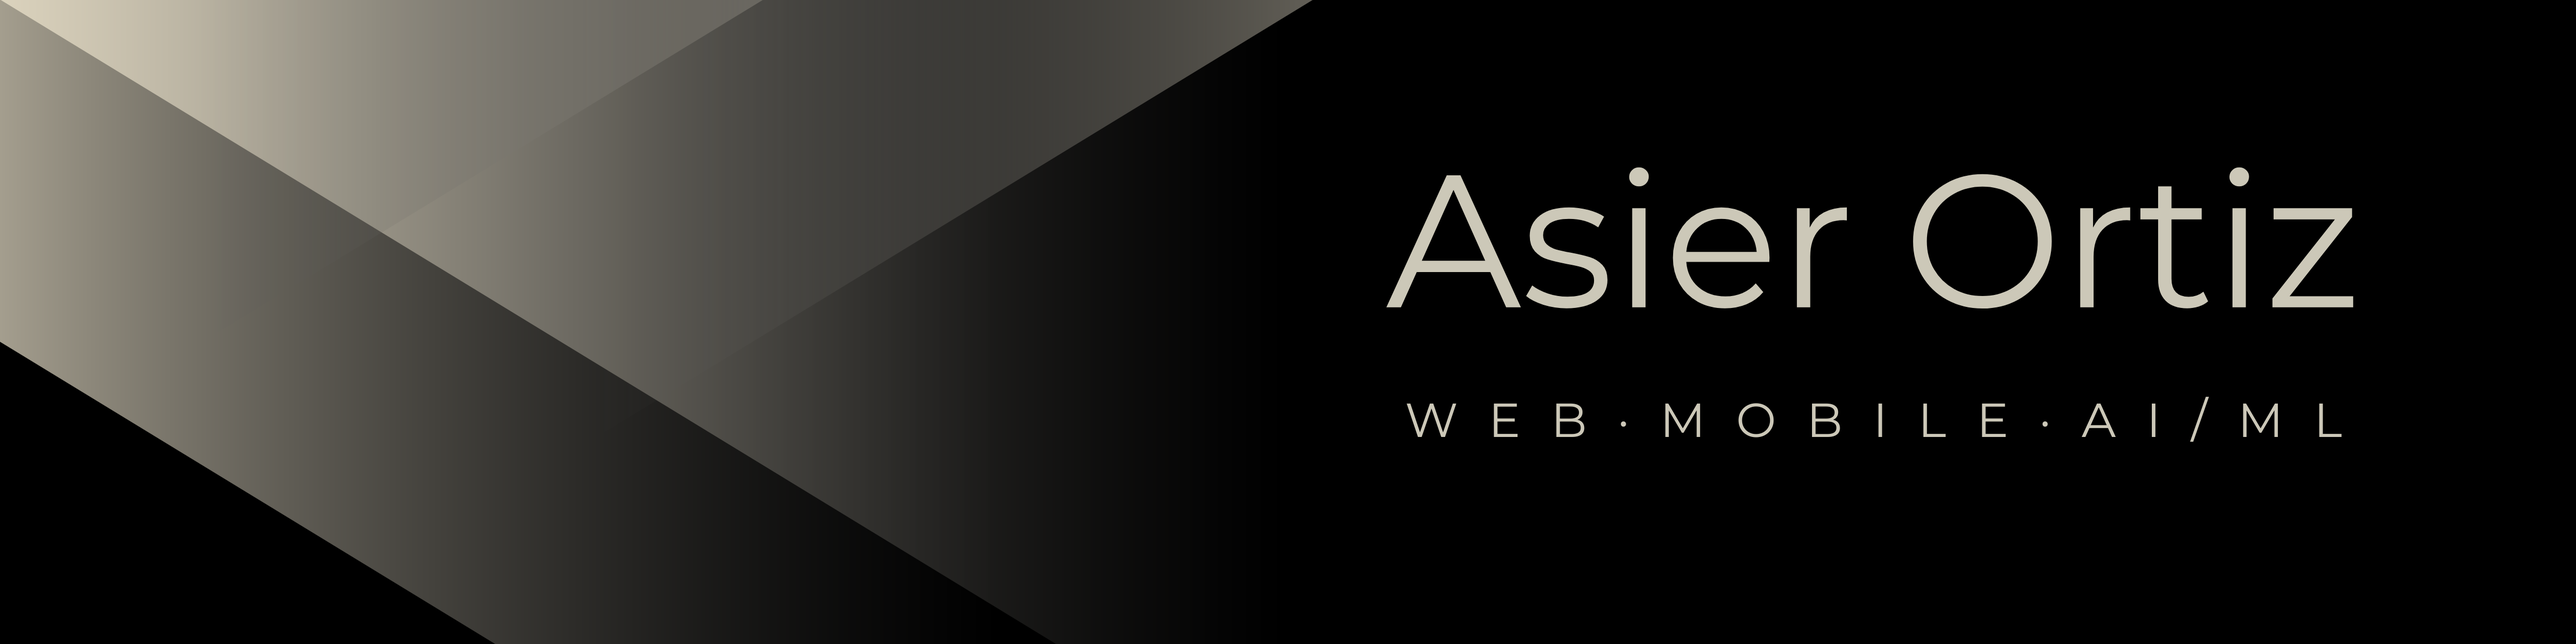
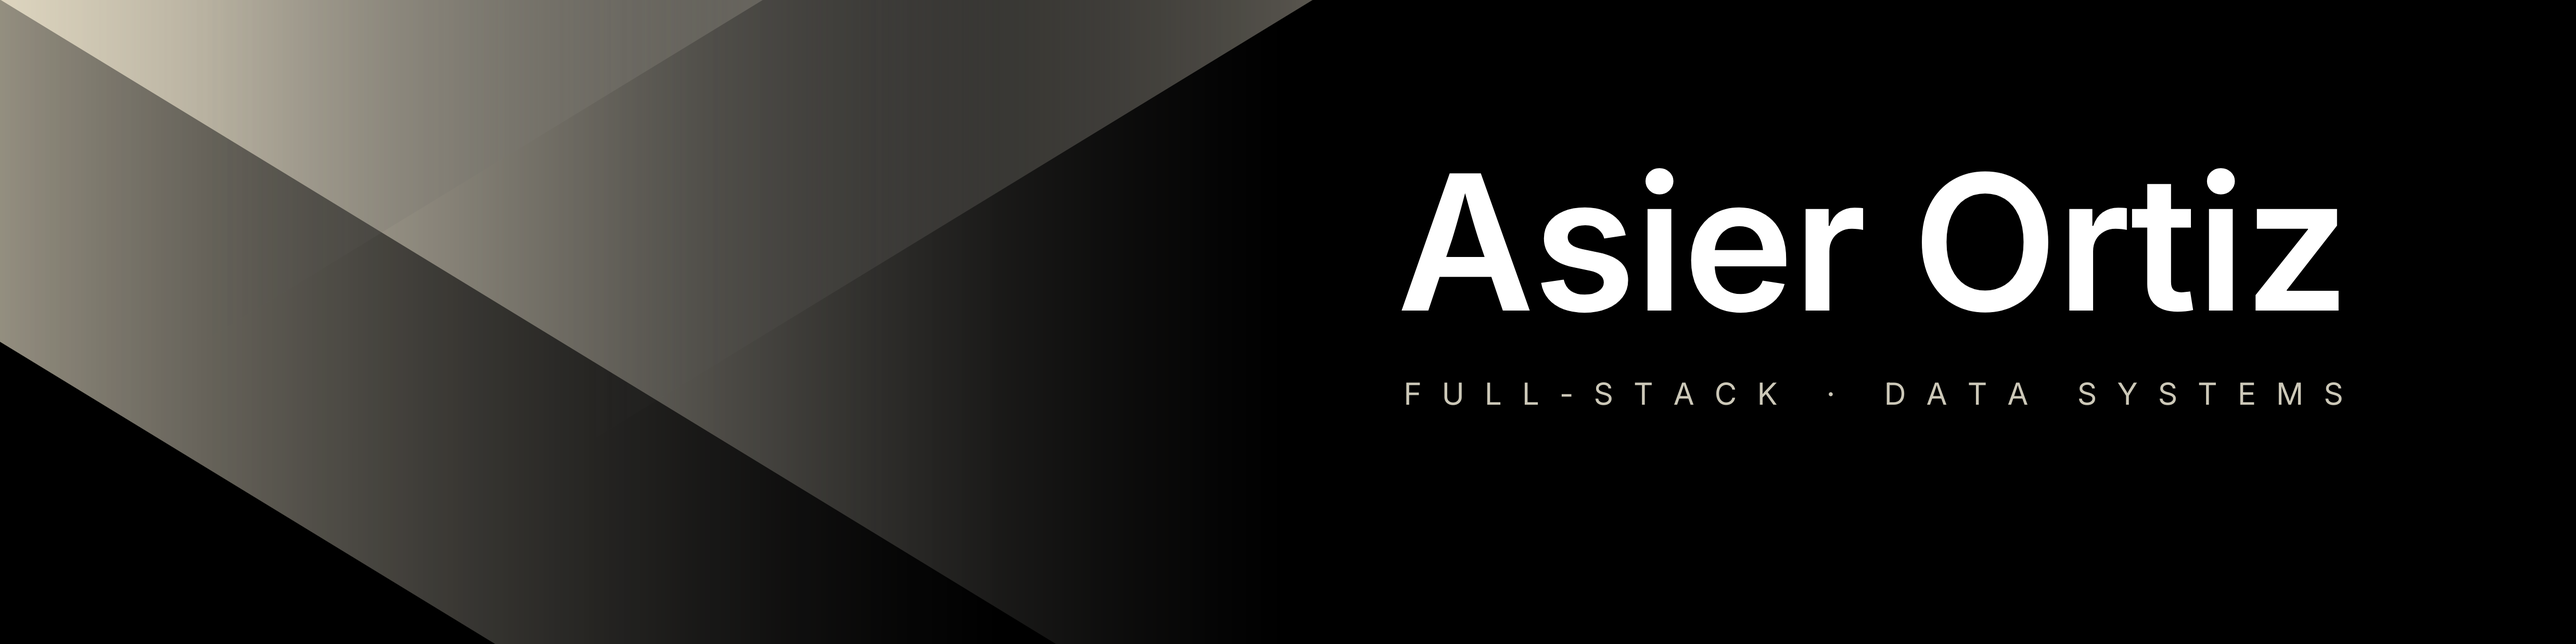
chore: update header image and bio text

diff --git a/README.md b/README.md
@@ -2,7 +2,7 @@
 
 # :wave: Hey there!
 
-I’m Asier. I build software systems and work with AI/ML.
+I’m Asier. I design and build software and data systems.
 
 <img src="./img/line-bar.png" width="100%" height="8px"/>
 
